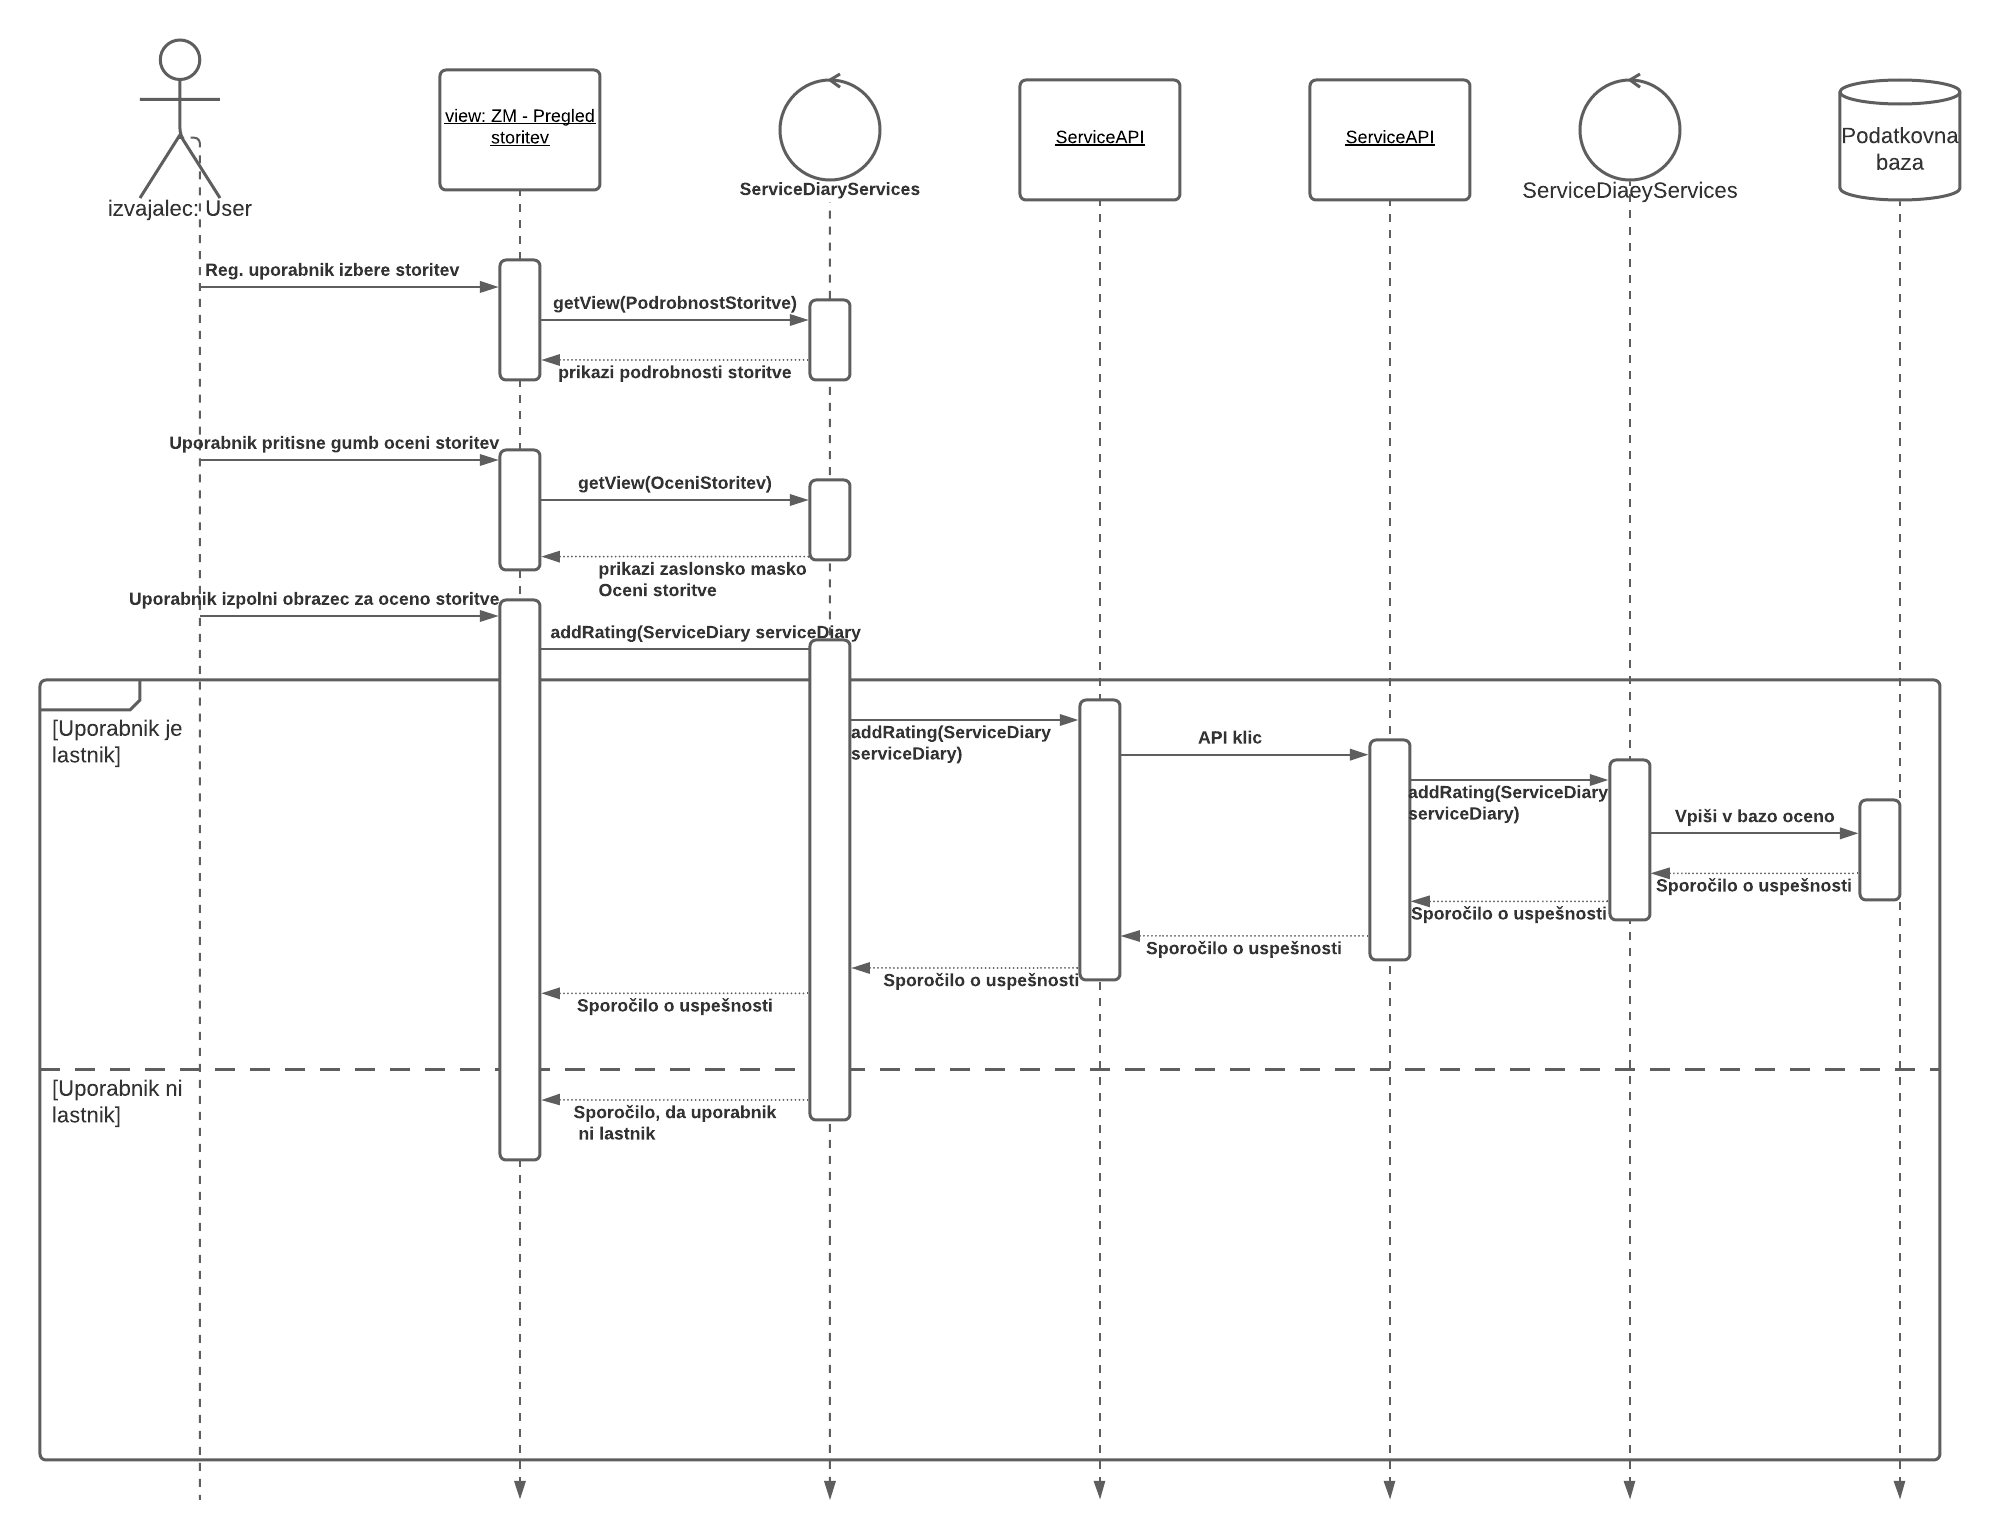
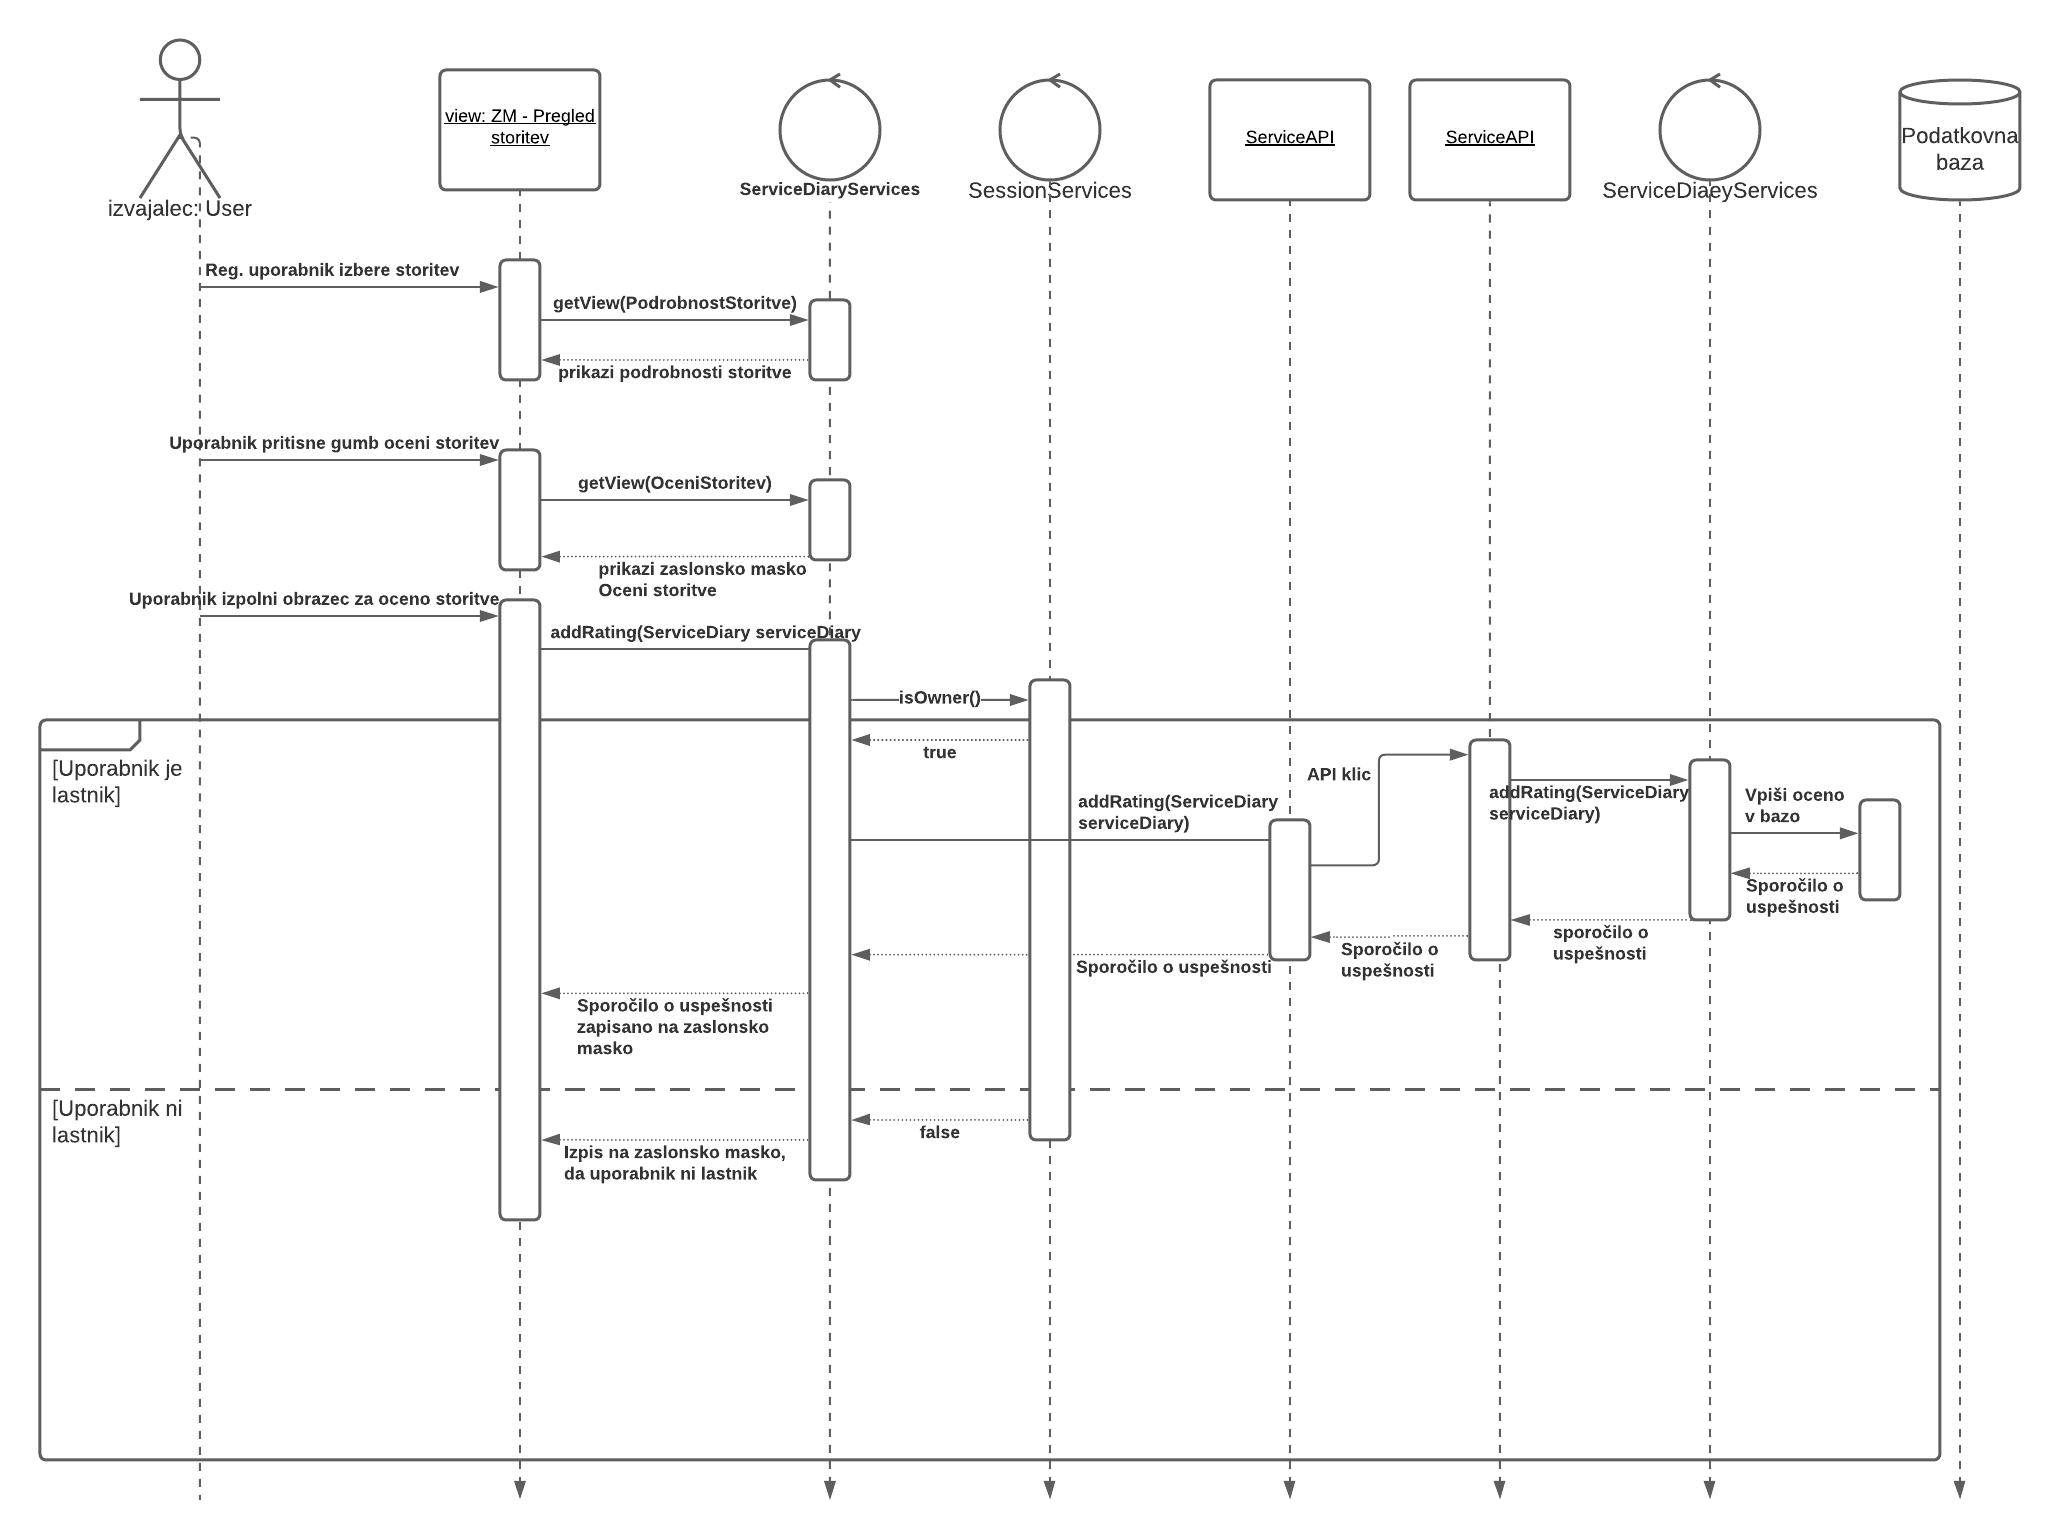
Skoraj končano 3.10, 3.11 in 3.12

diff --git a/docs/nacrt/README.md b/docs/nacrt/README.md
@@ -551,14 +551,16 @@ Plačilo seveda ni mogoče, če so vneseni podatki o kartici napačni. (TODO pri
 Ker lastnika psa seveda lahko skrbi, kje se nahaja njegov ljubi štirinožec, ta lahko pregleda zadnjo lokacijo izvajalca z mislijo, da s tem tudi ljubljenčka.
 #### Osnovni tok
 
-Uporabnik se prijavi v aplikacijo in v svojem profilu najde željeno storitev, kateri bo sledil. Ko pritisne gumb "Spremljaj lokacijo", se mu ta prikaže na zaslonu.
+Uporabnik se prijavi v aplikacijo in v svojem profilu najde željeno storitev, kateri bo sledil. Ko pritisne gumb "Spremljaj lokacijo", se mu ta prikaže na zaslonu.  
+Api klic tu predstavlja `DogoApi getLocation(Dogo dogo)`
 
 ![](../img/3.10.png)
 
 #### Izjemni tok
 Dandanes so privatni podatki veliko vredni, poleg tega pa tudi ni vsem všeč, če ima kdorkoli dostop do njih, zato aplikacija omogoča, da izvajalcu, zaradi takih ali drugačnih razlogov, ni potrebno deliti svoje lokacije.  
 Z drugega vidika, pa je popolnoma normalno za lastnike psov, da jih skrbi, kje se nahajajo, v trenutku, ko niso v njihovi oskrbi.  
-Zato je omogočeno, da ko lasnik želi najeti storitev, da mu je prej sporočeno ali izvajale omogoča sledenje njegovi lokaciji. V primeru da ali ne, se lastniku pred zaključenim najemom storitve to prikaže. 
+Zato je omogočeno, da ko lasnik želi najeti storitev, da mu je prej sporočeno ali izvajale omogoča sledenje njegovi lokaciji. V primeru da ali ne, se lastniku pred zaključenim najemom storitve to prikaže.  
+Api klic tu predstavlja `DogoApi getLocation(Dogo dogo)`
 
 ![](../img/3.10%20izjemni%20tok.png)
 
@@ -568,13 +570,14 @@ Uporabniki ne glede na to ali so uporabniki ali ponudniki, se želijo kdaj pa kd
 V ta namen aplikacija omogoča pogovarjanje preko sporočil, kar preko nje same.
 
 #### Osnovni tok
-V osnovnem toku je predstavljen potek iz strani pošiljatelja, ki najde željenega ponudnika, izpolni pošiljateljski obrazec, tega pošlje, nazaj pa dobi potrdilo, da je bilo sporočilo uspešno poslano.
-
+V osnovnem toku je predstavljen potek iz strani pošiljatelja, ki najde željenega ponudnika, izpolni pošiljateljski obrazec za sporočilo, tega pošlje, nazaj pa dobi potrdilo, da je bilo sporočilo uspešno poslano.
+Api klic tu predstavlja `UserAPI sendMessage(Message message)`
 
 ![](../img/3.11.png)
 
 #### Alternativni tok
-Alternativni tok pa predvideva uporabnika kot prejemnika, ki sporočilo prejme. To se mu prikaže v nabiralniku, v primeru da sporočilo obstaja, vendar je na bazi napaka, pa ga o tem obvesti, ko sporočilo želi pogledati.
+Alternativni tok pa predvideva uporabnika kot prejemnika, ki sporočilo prejme. To se mu prikaže v nabiralniku, v primeru da sporočilo obstaja, vendar je na bazi napaka, pa ga o tem obvesti, ko sporočilo želi pogledati.  
+Api klic tu predstavlja `UserAPI sendMessage(Message message)`
 
 ![](../img/3.11%20alternativni%20tok.png)
 
@@ -584,19 +587,22 @@ ocenami imeli boljši ugled in bili s tem nagrajeni za dobro delo.
 
 #### Osnovni tok
 V osnovnem toku se predvideva, da je uporabnik prijavljen v aplikacijo in da storitev poišče na seznamu vseh storitev. Nato oceni željeno storitev z oceno od 1 do 5 tačk, kjer 1 predstavlja najnižjo oceno 5 pa najvišjo.  
-Oceno odda, kjer v primeru, da je lastnik psov, se ta zapiše v bazo, v primeru da ni, pa se mu izpiše obvestilo, da ni lastnik psov in nima možnosti oddaje ocene.
+Oceno odda, kjer v primeru, da je lastnik psov, se ta zapiše v bazo, v primeru da ni, pa se mu izpiše obvestilo, da ni lastnik psov in nima možnosti oddaje ocene.  
+Api klic tu predstavlja `ServiceApi rateService(ServiceDiary serviceDiary)`
 
 ![](../img/3.12.png)
 
 #### Alternativni tok
 Alternativni tok je precej podoben osnovnemu, le da tu lastnik psov poišče storitev na svojem profilu med tistimi, ki jih je v preteklosti že naročil. Ostali del postopka, pa je enak, torej izpolni obrazec za oceno in ga odda. Še ena razlika tu je, da ker uporabnik išče med že naročenimi storitvami,
-po oddanemu obrazcu ne more dobiti nazaj sporočila, da ni lasnik psov, saj to mora biti, da sploh lahko ima zgodovino teh.
+po oddanemu obrazcu ne more dobiti nazaj sporočila, da ni lasnik psov, saj to mora biti, da sploh lahko ima zgodovino teh.  
+Api klic tu predstavlja `ServiceApi rateService(ServiceDiary serviceDiary)`
 
 ![](../img/3.12%20alternativni%20tok.png)
 
 #### Izjemni tok
 Poleg osnovnega in alternativnega toka, je tu še izjemni tok. Predvideva se, da uporabnik na zaslonski maski "Profil" pritisne gumb "Zgodovina", kateri mu prikaže vse storitve, ki jih je v preteklosti že najel, da bi eno izmed teh ocenil.
-Vendar pa teh še nima, zato se mu na zaslonski maski izpiše ravno to sporočilo, da ni še nikoli naročil storitve.
+Vendar pa teh še nima, zato se mu na zaslonski maski izpiše ravno to sporočilo, da ni še nikoli naročil storitve.  
+Api klic tu predstavlja `ServiceApi rateService(ServiceDiary serviceDiary)`
 
 ![](../img/3.12%20Izjemni%20tok.png)
 
